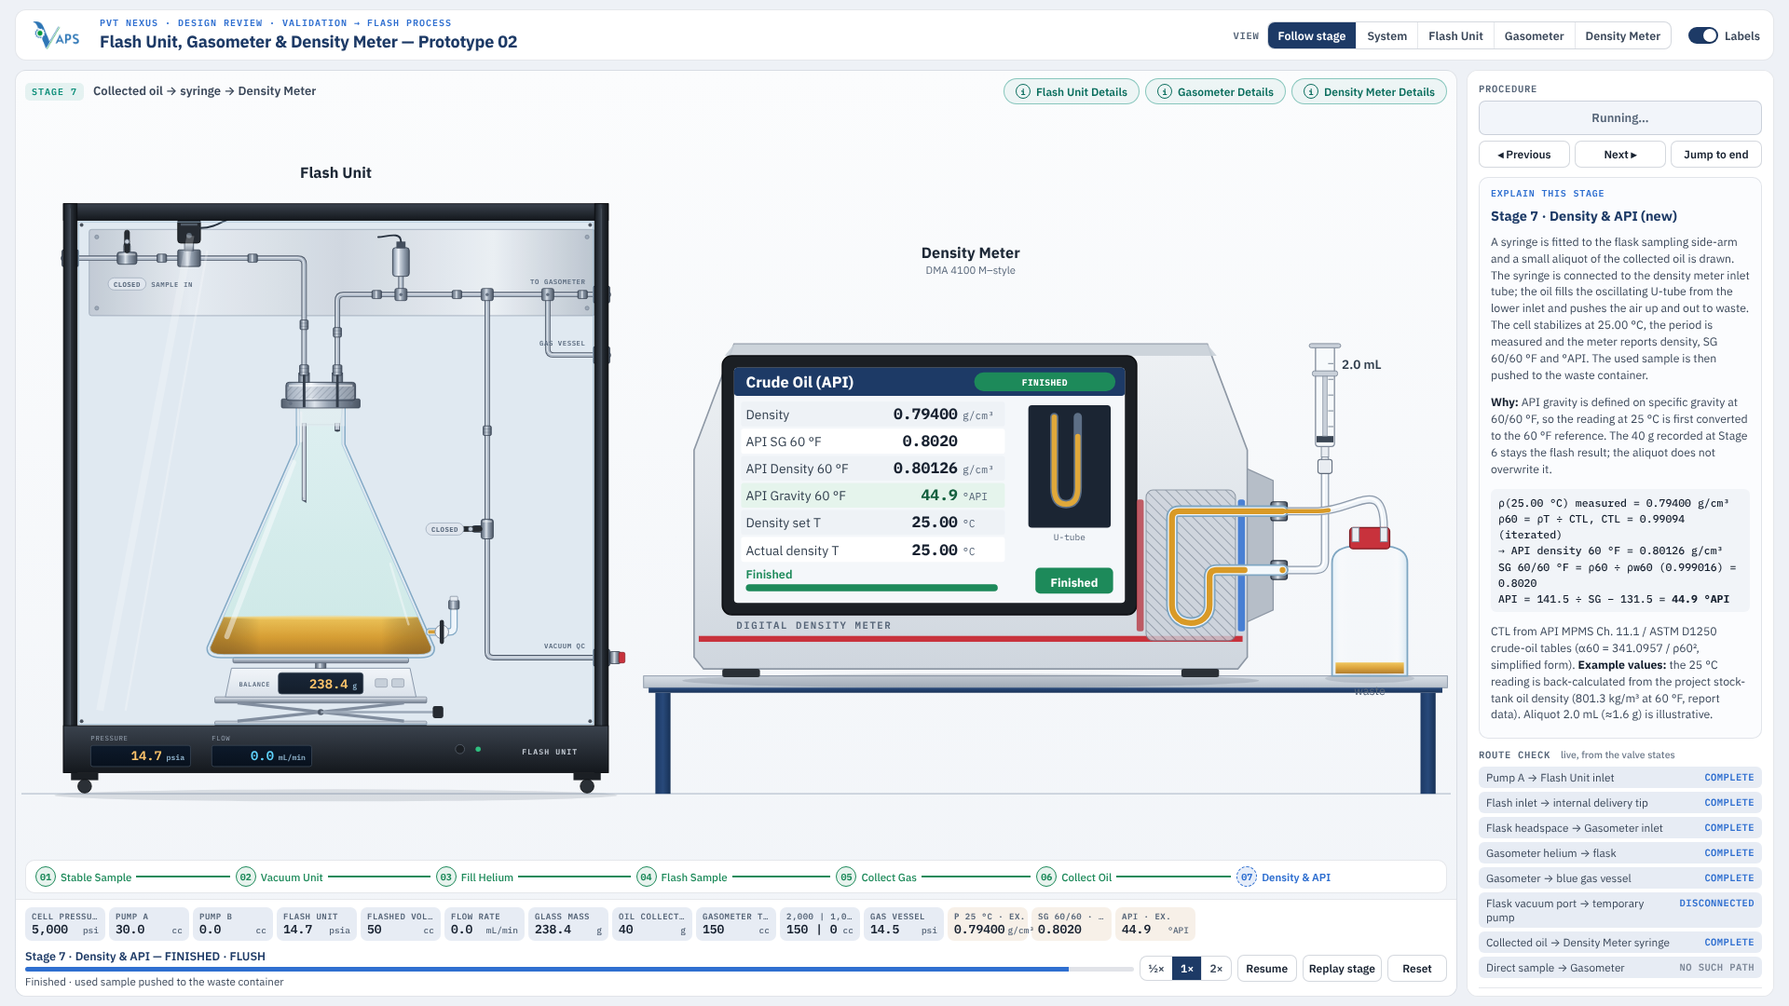
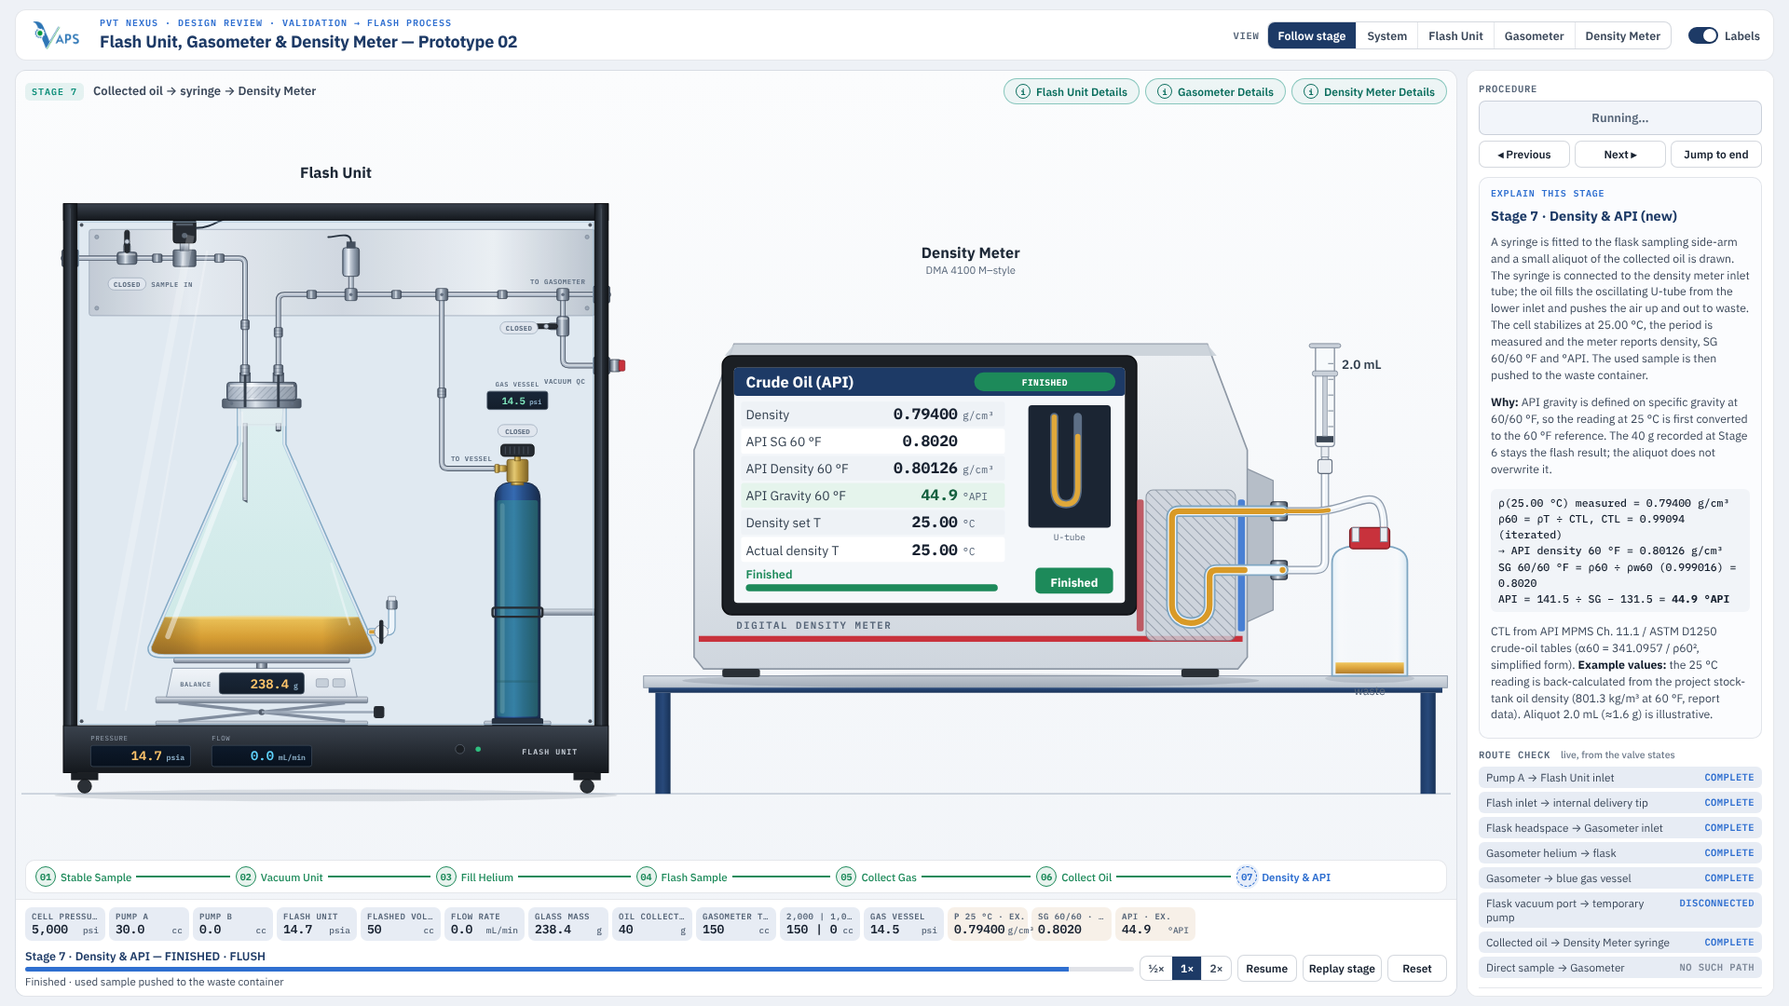
Flash prototype rev. C: reference layout, full-size PVT Cell, vessel inside the Flash Unit
- System view left to right: computer + controller, full-size PVT Cell
  (shared PVTCellArt desk, cable and cell), Flash Unit, Gasometer
- Blue gas-collection vessel stands inside the Flash Unit frame beside the
  flask; gas-collection branch runs from the manifold to its own top valve
- Vacuum quick-connect moved high on the right post; temporary pump stands
  between the Flash Unit and Gasometer during Stage 2 only
- Values, valve timing and routes unchanged

Claude-Session: https://claude.ai/code/session_013YqmijwReojc95dHHUcSpf

Changed region(s): [[0.0625, 0.2139, 0.3438, 0.7333]]

diff --git a/prototypes/flash-unit/flash-unit.js b/prototypes/flash-unit/flash-unit.js
@@ -15,18 +15,19 @@
   'use strict';
   var F = window.FX, R = F.R, C = F.C, E = F.E, P = F.P, L = F.L, T = F.T, MONO = F.MONO, SANS = F.SANS, r1 = F.r1;
 
-  var cx = 340;
+  var cx = 262;
   var G = {
     W: 720, H: 780, post: 18, rail: 22, box0: 690, box1: 752,
     flask: { cx: cx, neckTop: 268, neckBot: 318, neckHW: 32, wallIn: 4, bodyBot: 586, bodyHW: 150, bot: 600, botHW: 132 },
     head: { x0: cx - 46, x1: cx + 46, y0: 236, y1: 268, insertBot: 292 },
     inlet: { x: cx - 22, tip: 392 },
     outlet: { x: cx + 22, open: 300 },
-    sY: 72, gY: 120, iso: 84, sol: 166, pt: 446, vacX: 560, vacValveY: 430, vesX: 640, vesY: 200, vacY: 600,
+    sY: 72, gY: 120, iso: 84, sol: 160, pt: 380, vacX: 660, vacValveY: 162, vesX: 500, vesY: 350, vacY: 214,
+    ves: { x: 600, y: 690 },                                 // blue gas-collection vessel, standing inside the frame (right bay)
     plate: { x0: 34, x1: 702, y0: 34, y1: 148 },
     balance: { x0: cx - 130, x1: cx + 130, pan: 600, top: 614, bot: 652 },
     jack: { top: 652, bot: 690, hw: 140 },
-    arm: { y: 566, x1: cx + 176, top: 532, cock: cx + 160 },
+    arm: { y: 566, x1: cx + 172, top: 532, cock: cx + 158 },
     oilMaxH: 52                                              // drawing scale: 40 g (existing flash result) fills 52 units
   };
   var fl = G.flask;
@@ -67,7 +68,9 @@
     // evacuation: opening -> gas manifold -> vacuum valve -> quick-connect on the right post
     RT.vac = F.path(ox, g.outlet.open).V(g.gY + 8).turn(ox, g.gY, g.vacX, g.gY, 8).H(g.vacX - 8).turn(g.vacX, g.gY, g.vacX, g.vacY, 8).V(g.vacY - 8).turn(g.vacX, g.vacY, g.W, g.vacY, 8).H(g.W).end();
     // gas-collection vessel: from the Gasometer bulkhead along the manifold to the vessel bulkhead
-    RT.ves = F.path(g.W, g.gY).H(g.vesX + 8).turn(g.vesX, g.gY, g.vesX, g.vesY, 8).V(g.vesY - 8).turn(g.vesX, g.vesY, g.W, g.vesY, 8).H(g.W).end();
+    // gas-collection: from the Gasometer bulkhead along the manifold, down the vessel branch, into the vessel's own top valve
+    var vsx = g.ves.x + Parts.VG.side[0] - 6, vtop = g.ves.y - Parts.VG.h + 4;
+    RT.ves = F.path(g.W, g.gY).H(g.vesX + 8).turn(g.vesX, g.gY, g.vesX, g.vesY, 8).V(g.vesY - 8).turn(g.vesX, g.vesY, vsx, g.vesY, 8).H(g.ves.x).V(vtop).end();
   })();
   RT.heIn = F.geo('', RT.gOut.pts.slice().reverse());
 
@@ -165,13 +168,13 @@
     s += F.tube(F.path(0, g.sY).H(ix - 8).turn(ix, g.sY, ix, g.head.y0 - 16, 8).V(g.head.y0 - 16).end());
     s += F.tube(F.path(ox, g.head.y0 - 16).V(g.gY + 8).turn(ox, g.gY, g.W, g.gY, 8).H(g.W).end());
     s += F.tube(F.path(g.vacX, g.gY).V(g.vacY - 8).turn(g.vacX, g.vacY, g.W, g.vacY, 8).H(g.W).end());
-    s += F.tube(F.path(g.vesX, g.gY).V(g.vesY - 8).turn(g.vesX, g.vesY, g.W, g.vesY, 8).H(g.W).end());
+    s += F.tube(F.path(g.vesX, g.gY).V(g.vesY - 8).turn(g.vesX, g.vesY, g.ves.x + Parts.VG.side[0] - 6, g.vesY, 8).H(g.ves.x + Parts.VG.side[0] - 6).end());
     s += F.tube(F.path(g.pt, g.gY).V(g.gY - 26).end());
     [g.pt, g.vacX, g.vesX].forEach(function (x) { s += F.tee(x, g.gY); });
-    [[100 + 30, g.sY], [250, g.sY], [ox + 52, g.gY], [520, g.gY], [686, g.gY]].forEach(function (q) { s += F.nut(q[0], q[1], 'h', .9); });
-    s += F.nut(ix, 160, 'v', .9) + F.nut(ox, 170, 'v', .9) + F.nut(g.vacX, 300, 'v', .9);
+    [[124, g.sY], [206, g.sY], [ox + 44, g.gY], [440, g.gY], [580, g.gY]].forEach(function (q) { s += F.nut(q[0], q[1], 'h', .9); });
+    s += F.nut(ix, 160, 'v', .9) + F.nut(ox, 170, 'v', .9) + F.nut(g.vesX, 250, 'v', .9);
     // bulkheads on the posts
-    [[0, g.sY], [g.W, g.gY], [g.W, g.vesY], [g.W, g.vacY]].forEach(function (q) { var x = q[0] ? g.W - g.post : 0; s += R(x - 2, q[1] - 11, g.post + 4, 22, 'rx="2" fill="url(#ppSteelD)" stroke="#2a3443" stroke-width=".9"'); });
+    [[0, g.sY], [g.W, g.gY], [g.W, g.vacY]].forEach(function (q) { var x = q[0] ? g.W - g.post : 0; s += R(x - 2, q[1] - 11, g.post + 4, 22, 'rx="2" fill="url(#ppSteelD)" stroke="#2a3443" stroke-width=".9"'); });
     // solenoid flow-control valve: body on the line, coil above, cable
     var sx = g.sol;
     s += R(sx - 15, g.sY - 11, 30, 22, 'rx="2" fill="url(#ppSteelD)" stroke="#2a3443" stroke-width="1"');
@@ -184,8 +187,8 @@
     // labels printed on the mounting plate
     s += T(116, 110, 'SAMPLE IN', MONO + ' font-size="9" font-weight="600" letter-spacing=".7" fill="#566578"');
     s += T(g.W - 30, g.gY - 14, 'TO GASOMETER', 'text-anchor="end" ' + MONO + ' font-size="9" font-weight="600" letter-spacing=".7" fill="#566578"');
-    s += T(g.W - 30, g.vesY - 12, 'GAS VESSEL', 'text-anchor="end" ' + MONO + ' font-size="9" font-weight="600" letter-spacing=".7" fill="#566578"');
-    s += T(g.W - 30, g.vacY - 12, 'VACUUM QC', 'text-anchor="end" ' + MONO + ' font-size="9" font-weight="600" letter-spacing=".7" fill="#566578"');
+    s += T(g.vesX + 12, g.vesY - 10, 'TO VESSEL', MONO + ' font-size="9" font-weight="600" letter-spacing=".7" fill="#566578"');
+    s += T(g.W - 30, g.vacY + 24, 'VACUUM QC', 'text-anchor="end" ' + MONO + ' font-size="9" font-weight="600" letter-spacing=".7" fill="#566578"');
     return s;
   }
 
@@ -254,12 +257,29 @@
     s += R(a.x1 - 7, a.top - 8, 14, 12, 'rx="2" fill="url(#ppSteelD)" stroke="#2a3443" stroke-width=".8"') + R(a.x1 - 5, a.top - 13, 10, 6, 'rx="1" fill="#e9edf2" stroke="#5d6878" stroke-width=".7"');
     return s;
   }
+  // blue gas-collection vessel inside the right bay: stands on the lower deck, strap clamp to the right post
+  function vesselSupport() {
+    var v = G.ves, s = '', yc = v.y - 150;
+    s += R(v.x - 44, v.y - 6, 88, 6, 'rx="1.5" fill="url(#ppSteelV)" stroke="#5d6878" stroke-width=".8"');
+    s += R(v.x + 30, yc - 4, G.W - G.post - v.x - 30, 8, 'fill="url(#ppSteelV)" stroke="#5d6878" stroke-width=".7"');
+    return s;
+  }
+  function vessel(V) {
+    var v = G.ves, s = '', yc = v.y - 150;
+    s += '<g transform="translate(' + v.x + ' ' + v.y + ')">' + Parts.vessel(V) + '</g>';
+    s += R(v.x - 33, yc - 6, 66, 12, 'rx="3" fill="none" stroke="#1b1f24" stroke-width="3"');
+    var bp = 14.5 * F.clamp((V.balloon || 0) / 250, 0, 1), ty = v.y - Parts.VG.h - 142;
+    s += R(v.x - 40, ty, 80, 24, 'rx="3" fill="url(#ppScreen)" stroke="#3a4656" stroke-width="1"');
+    s += T(v.x + 32, ty + 17, bp.toFixed(1) + '<tspan font-size="9" fill="#8fb3cc"> psi</tspan>', 'text-anchor="end" ' + MONO + ' font-size="13" font-weight="600" fill="' + (bp > 0.05 ? '#7ff0bf' : '#5fd4ff') + '"');
+    s += T(v.x, ty - 6, 'GAS VESSEL', 'text-anchor="middle" ' + MONO + ' font-size="8.5" font-weight="600" letter-spacing=".7" fill="#566578"');
+    return s;
+  }
   function valves(V) {
     var g = G, v = V.valve || {}, s = '';
     s += F.valve(g.iso, g.sY, 'h', v.inlet || 0, { side: 'up', tag: [0, 34] });
     // solenoid state lamp (energised = open)
     s += C(g.sol, g.sY - 30, 3.6, 'fill="' + ((v.inlet || 0) > 0.5 ? '#2fbf7f' : '#59626e') + '"');
-    s += F.valve(g.vacX, g.vacValveY, 'v', v.vac || 0, { side: 'left', tag: [-56, 0] });
+    s += F.valve(g.vacX, g.vacValveY, 'v', v.vac || 0, { side: 'left', tag: [-58, 2] });
     // quick-connect: capped unless the temporary vacuum hose is attached
     var h = V.vacHose || 0;
     s += R(g.W + 2, g.vacY - 8, 14, 16, 'rx="2" fill="url(#ppSteelD)" stroke="#2a3443" stroke-width=".9"');
@@ -288,6 +308,8 @@
       { id: 'fu-drop', fn: drops },
       { id: 'fu-ffront', html: flaskFront() + head(cut) },
       { id: 'fu-arm', fn: arm },
+      { id: 'fu-vsup', html: vesselSupport() },
+      { id: 'fu-ves', fn: vessel },
       { id: 'fu-valves', fn: valves },
       { id: 'fu-front', html: frameFront() },
       { id: 'fu-disp', fn: displays }
@@ -302,23 +324,24 @@
     { id: 'tube', n: 'Sample delivery tube', s: 'through the head', a: [G.inlet.x - 3, 200], p: [-34, 196], an: 'end' },
     { id: 'head', n: 'Flask head', s: 'sealed · 2 passages', a: [G.head.x0, 250], p: [-34, 258], an: 'end' },
     { id: 'tip', n: 'Delivery tip', s: 'inside the flask', a: [G.inlet.x - 4, G.inlet.tip], p: [-34, 330], an: 'end' },
-    { id: 'flask', n: 'Large glass flask', s: 'separation happens here', a: [210, 470], p: [-34, 420], an: 'end' },
-    { id: 'oil', n: 'Collected oil', s: 'weighed on the balance', a: [214, 586], p: [-34, 520], an: 'end' },
-    { id: 'balance', n: 'Balance', s: 'tare + oil', a: [212, 630], p: [-34, 610], an: 'end' },
-    { id: 'platform', n: 'Adjustable platform', s: 'lab jack', a: [200, 672], p: [-34, 680], an: 'end' },
-    { id: 'flowCtl', n: 'Flow-control component', s: 'solenoid valve', a: [G.sol, 20], p: [G.sol + 60, -40], an: 'middle' },
-    { id: 'pt', n: 'Pressure transducer', s: 'unit pressure · psia', a: [G.pt, 58], p: [G.pt + 40, -40], an: 'middle' },
-    { id: 'gasLine', n: 'Gasometer line', s: 'headspace gas out', a: [G.W + 4, G.gY], p: [770, G.gY], an: 'start' },
-    { id: 'vesselConn', n: 'Gas-collection vessel connection', s: 'line to the blue vessel', a: [G.W + 4, G.vesY], p: [770, G.vesY], an: 'start' },
-    { id: 'outlet', n: 'Headspace gas outlet', s: 'opening above the liquid', a: [G.outlet.x + 4, G.outlet.open], p: [770, 280], an: 'start' },
-    { id: 'headspace', n: 'Gas headspace', s: 'gas gathers here', a: [cx + 60, 380], p: [770, 360], an: 'start' },
-    { id: 'release', n: 'Gas-release region', s: 'bubbles rise through the oil', a: [cx + 90, 540], p: [770, 450], an: 'start' },
-    { id: 'arm', n: 'Oil sampling side-arm', s: 'stopcock · Stage 7', a: [G.arm.x1 + 6, G.arm.top + 4], p: [770, 530], an: 'start' },
-    { id: 'vacConn', n: 'Temporary vacuum connection', s: 'quick-connect · pump is external', a: [G.W + 20, G.vacY], p: [770, G.vacY + 20], an: 'start' }
+    { id: 'flask', n: 'Large glass flask', s: 'separation happens here', a: [cx - 130, 470], p: [-34, 420], an: 'end' },
+    { id: 'oil', n: 'Collected oil', s: 'weighed on the balance', a: [cx - 126, 586], p: [-34, 520], an: 'end' },
+    { id: 'balance', n: 'Balance', s: 'tare + oil', a: [cx - 128, 630], p: [-34, 610], an: 'end' },
+    { id: 'platform', n: 'Adjustable platform', s: 'lab jack', a: [cx - 140, 672], p: [-34, 680], an: 'end' },
+    { id: 'flowCtl', n: 'Flow-control component', s: 'solenoid valve', a: [G.sol, 20], p: [G.sol + 40, -40], an: 'middle' },
+    { id: 'pt', n: 'Pressure transducer', s: 'unit pressure · psia', a: [G.pt, 58], p: [G.pt + 70, -40], an: 'middle' },
+    { id: 'gasLine', n: 'Gasometer line', s: 'headspace gas out', a: [G.W + 4, G.gY], p: [770, 96], an: 'start' },
+    { id: 'vacConn', n: 'Temporary vacuum connection', s: 'quick-connect · pump is external', a: [G.W + 20, G.vacY], p: [770, 176], an: 'start' },
+    { id: 'outlet', n: 'Headspace gas outlet', s: 'opening above the liquid', a: [G.outlet.x + 4, G.outlet.open], p: [770, 256], an: 'start' },
+    { id: 'vesselConn', n: 'Gas-collection vessel connection', s: 'branch to the vessel valve', a: [G.vesX + 4, 300], p: [770, 316], an: 'start' },
+    { id: 'headspace', n: 'Gas headspace', s: 'gas gathers here', a: [cx + 50, 380], p: [770, 376], an: 'start' },
+    { id: 'vessel', n: 'Blue gas-collection vessel', s: 'own top valve · inside the frame', a: [G.ves.x + 30, 470], p: [770, 450], an: 'start' },
+    { id: 'release', n: 'Gas-release region', s: 'bubbles rise through the oil', a: [cx + 80, 556], p: [770, 520], an: 'start' },
+    { id: 'arm', n: 'Oil sampling side-arm', s: 'stopcock · Stage 7', a: [G.arm.x1 + 6, G.arm.top + 4], p: [770, 590], an: 'start' }
   ];
 
   window.FlashUnit = {
     G: G, RT: RT, layers: layers, oilTop: oilTop, LABELS: LABELS,
-    port: { sampleIn: [0, G.sY], gasOut: [G.W, G.gY], vessel: [G.W, G.vesY], vac: [G.W + 16, G.vacY], sample: [G.arm.x1, G.arm.top - 13] }
+    port: { sampleIn: [0, G.sY], gasOut: [G.W, G.gY], vac: [G.W + 16, G.vacY], sample: [G.arm.x1, G.arm.top - 13] }
   };
 })();

diff --git a/prototypes/flash-unit/scene.js b/prototypes/flash-unit/scene.js
@@ -3,7 +3,7 @@
    blue gas-collection vessel and the Stage 7 syringe. The main preview and the Details views call the
    same instrument modules (FlashUnit, Gasometer, DensityMeter, Parts, PVTCellArt).
 
-   Modes: 'system' (PVT Cell -> Flash Unit -> Gasometer, vessel beside the unit), 'density' (Stage 7:
+   Modes: 'system' (computer + controller, PVT Cell -> Flash Unit (flask + blue vessel inside) -> Gasometer), 'density' (Stage 7:
    Flash Unit + Density Meter), 'fu' / 'ga' / 'dm' (one instrument, with what it connects to). */
 (function () {
   'use strict';
@@ -19,7 +19,8 @@
 
   /* placements (world units). floor = 1000 in the system scene */
   var LAYOUT = {
-    system: { vb: [-4, 236, 1778, 784], floor: 1000, cell: { x: -112, y: 622, s: 0.5 }, fu: { x: 430, y: 298, s: 0.9 }, ves: { x: 1272, y: 1000, s: 0.95 }, pump: { x: 1150, y: 1000, s: 0.8 }, ga: { x: 1344, y: 312, s: 0.8 } },
+    // left to right: computer + controller, full-size PVT Cell (same scale as the procedure pages' cell views), Flash Unit, Gasometer
+    system: { vb: [-6, 404, 1842, 616], floor: 1000, desk: { x: 10, y: 700, s: 0.55, legs: 295 }, cell: { x: 56, y: 433, s: 0.75 }, fu: { x: 840, y: 470, s: 0.68 }, pump: { x: 1392, y: 1000, s: 0.6 }, ga: { x: 1500, y: 467, s: 0.62 } },
     density: { vb: [-10, 236, 1700, 784], floor: 1000, fu: { x: 40, y: 298, s: 0.9 }, dm: { x: 790, y: 423, s: 1.4 } },
     fu: { vb: [-300, -60, 1340, 880], floor: 780, fu: { x: 0, y: 0, s: 1 }, pump: { x: 860, y: 780, s: 1 } },
     ga: { vb: [-400, -40, 1340, 920], floor: 860, ga: { x: 0, y: 0, s: 1 } },
@@ -57,13 +58,15 @@
       ext.gas = F.path(go[0], go[1]).H(xg - 10).turn(xg, go[1], xg, gi[1], 10).V(gi[1] - 10).turn(xg, gi[1], gi[0], gi[1], 10).H(gi[0]).end();
       tubes += F.tube(ext.gas);
     }
-    var vesAt = Lo.ves;
-    if (Lo.fu && vesAt) {
-      var vo = tf(Lo.fu, FU.port.vessel), vs = tf(vesAt, [PT.VG.side[0] - 6, PT.VG.side[1]]), xv = vs[0] - 30;
-      ext.ves = F.path(vo[0], vo[1]).H(xv - 10).turn(xv, vo[1], xv, vs[1], 10).V(vs[1] - 10).turn(xv, vs[1], vs[0], vs[1], 10).H(vs[0]).end();
-      tubes += F.tube(ext.ves);
+    // computer + controller and the signal cable (approved shared desk drawing)
+    if (Lo.desk && Lo.cell) {
+      layers.push({ id: 'desk', fn: function (V) {
+        return PA.desk(NS, { x: Lo.desk.x, y: Lo.desk.y, s: Lo.desk.s, legs: Lo.desk.legs, raw: true, ctl: '5,000',
+          rows: [['CELL psig', '5,000', '#7ff0bf'], ['PUMP A cc', (V.pumpA == null ? 80 : V.pumpA).toFixed(1), '#ffc56b'], ['PUMP B cc', '0.0', '#ffc56b'], ['T °C', '114.0', '#7ff0bf']] }) +
+          PA.cable({ at: Lo.cell }, Lo.desk, 40);
+      } });
+      svg += g('desk');
     }
-
     if (Lo.cell) { layers.push({ id: 'cell', fn: function (V) { return cellMarkup(Lo.cell, V); } }); svg += g('cell'); }
     svg += g('tubes', '', tubes);
 
@@ -73,7 +76,6 @@
       return g(key, place(at), inner);
     }
     if (Lo.fu) svg += inst('fu', FU, Lo.fu, opt.fuView || 'internal');
-    if (vesAt) { layers.push({ id: 'ves', fn: function (V) { return PT.vessel(V); } }); svg += g('ves', place(vesAt)); }
     if (Lo.ga) svg += inst('ga', GA, Lo.ga, opt.gaView || 'internal');
     if (Lo.dm) svg += inst('dm', DM, Lo.dm, opt.dmView || 'internal');
 
@@ -104,7 +106,7 @@
       });
       var vg = chain([tgeo(Lo.fu, FU.RT.vac), Lo.pump ? hoseGeo(Lo) : null]);
       routes.vac = { g: vg, kind: 'vac', gate: ['vac'], need: 'vacHose', kf: [[0.15, 0], [0.38, vg.L]] };
-      var vesG = chain([gaIn('2k') && rgeo(gaIn('2k')), ext.gas && rgeo(ext.gas), tgeo(Lo.fu, FU.RT.ves), ext.ves, vesAt ? tgeo(vesAt, PT.vesselRoute) : null]);
+      var vesG = chain([gaIn('2k') && rgeo(gaIn('2k')), ext.gas && rgeo(ext.gas), tgeo(Lo.fu, FU.RT.ves)]);
       routes.vessel = { g: vesG, kind: 'gas', gate: ['in2k', 'iso2k', 'vessel'], kf: [[0.15, 0], [0.40, vesG.L]] };
     } else if (Lo.ga) {
       var g2 = gaIn('2k'), g1 = gaIn('1k');
@@ -150,7 +152,7 @@
   /* ------------------------------------------------------------ temporary vacuum pump + hose */
   function hoseGeo(Lo) {
     var a = tf(Lo.fu, FU.port.vac), b = tf(Lo.pump, PT.PG.inlet);
-    return F.path(a[0], a[1]).C(a[0] + 60, a[1], b[0], b[1] - 90, b[0], b[1]).end();
+    return F.path(a[0], a[1]).C(a[0] + 50, a[1], b[0] - 8, b[1] - 200, b[0], b[1]).end();
   }
   function vacMarkup(Lo, V) {
     var show = V.vacPump || 0, h = V.vacHose || 0;
@@ -209,15 +211,10 @@
     var s = '', lab = function (x, y, n, sub, an) {
       return T(x, y, n, 'text-anchor="' + (an || 'middle') + '" ' + SANS + ' font-size="18" font-weight="700" fill="#1d2836"') + (sub ? T(x, y + 18, sub, 'text-anchor="' + (an || 'middle') + '" ' + SANS + ' font-size="12.5" fill="#566578"') : '');
     };
-    if (Lo.cell) { var cp = PA.pt({ at: Lo.cell }, 615, 30); s += lab(cp[0], cp[1] - 4, 'PVT Cell', 'Pump A → Port R'); }
+    if (Lo.cell) { var cp = PA.pt({ at: Lo.cell }, 615, 8); s += lab(cp[0], cp[1], 'PVT Cell', ''); }
     if (Lo.fu) { var f0 = tf(Lo.fu, [FU.G.W / 2, -14]); s += lab(f0[0], f0[1] - 18, 'Flash Unit', ''); }
     if (Lo.ga) { var g0 = tf(Lo.ga, [GA.G.W / 2, -16]); s += lab(g0[0], g0[1] - 18, 'Gasometer', ''); }
     if (Lo.dm) { var d0 = tf(Lo.dm, [235, -30]); s += lab(d0[0], d0[1] - 18, 'Density Meter', 'DMA 4100 M–style'); }
-    if (Lo.ves) {
-      var v0 = tf(Lo.ves, [0, -PT.VG.h - 96]), bp = 14.5 * F.clamp((V.balloon || 0) / 250, 0, 1);
-      s += T(v0[0], v0[1] - 44, 'Gas vessel', 'text-anchor="middle" ' + SANS + ' font-size="13" font-weight="700" fill="#1d2836"');
-      s += R(v0[0] - 38, v0[1] - 36, 76, 22, 'rx="4" fill="#0d1a2b"') + T(v0[0], v0[1] - 20, bp.toFixed(1) + ' psi', 'text-anchor="middle" ' + MONO + ' font-size="13" font-weight="600" fill="' + (bp > 0.05 ? '#7ff0bf' : '#5fd4ff') + '"');
-    }
     if ((V.vacPump || 0) > 0.3 && Lo.pump) { var p0 = tf(Lo.pump, [0, -PT.PG.h - 24]); s += T(p0[0], p0[1], 'Temporary vacuum pump', 'text-anchor="middle" ' + SANS + ' font-size="12.5" font-weight="700" fill="#2f6fd0" opacity="' + r1(V.vacPump) + '"'); }
     return s;
   }

diff --git a/prototypes/flash-unit/details.js b/prototypes/flash-unit/details.js
@@ -23,7 +23,7 @@
         'Sample from Pump A enters at the sample inlet and passes the inlet-control (isolation) valve and the solenoid flow-control valve on the upper stainless-steel manifold, where its pressure is let down.',
         'The sample delivery tube runs down through the sealed flask head; its tip is inside the large flask. Oil falls from the tip and collects at the bottom of the flask, which stands on the balance on an adjustable platform.',
         'Gas released from the sample rises through the oil into the headspace and leaves only through the headspace gas outlet — a separate passage in the head, opening above the liquid — to the Gasometer line.',
-        'The gas manifold also carries the gas-collection vessel line (Stage 5) and a capped quick-connect for a temporary vacuum pump (Stage 2). The vacuum pump is external equipment: it is connected for Stage 2 and removed afterwards.'
+        'The gas manifold also carries the branch to the blue gas-collection vessel, which stands inside the same frame to the right of the flask (Stage 5) and a capped quick-connect for a temporary vacuum pump (Stage 2). The vacuum pump is external equipment: it is connected for Stage 2 and removed afterwards.'
       ],
       parts: {
         sampleIn: { n: 'Sample inlet', d: 'Bulkhead on the left post where the sample line from the PVT Cell (Pump A through the Port R valve) enters.', in: B },
@@ -40,7 +40,8 @@
         headspace: { n: 'Gas headspace', d: 'Space above the oil where the released gas gathers before leaving through the headspace outlet.', in: B },
         outlet: { n: 'Headspace gas outlet', d: 'Opening of the outlet passage in the neck, above the liquid — never submerged. It leads up to the gas manifold and the Gasometer line.', in: B },
         gasLine: { n: 'Gasometer line', d: 'Gas manifold outlet to the Gasometer inlet. Gas reaches it only from the flask headspace (or from the Gasometer, for helium and vessel filling).', in: B },
-        vesselConn: { n: 'Gas-collection vessel connection', d: 'Branch of the gas manifold to the blue vessel; the vessel’s own top valve isolates it. Used in Stage 5.', in: B },
+        vesselConn: { n: 'Gas-collection vessel connection', d: 'Branch of the gas manifold down to the side connection of the blue vessel’s top valve; that valve is the only isolation. Used in Stage 5.', in: B },
+        vessel: { n: 'Blue gas-collection vessel', d: 'Tall dark-blue cylinder with a brass top valve and black knob, standing on the lower deck in the right bay of the frame with a strap clamp to the post. It holds the GC gas sample; its pressure is shown on the small display above it.', in: B },
         vacConn: { n: 'Temporary vacuum connection', d: 'Vacuum valve and a capped quick-connect on the right post. The vacuum pump itself is external and temporary: connected for Stage 2, then disconnected and removed.', in: B },
         balance: { n: 'Balance', d: 'Weighs the flask and contents: 200 g tare, the oil collected is the gain.', in: B },
         platform: { n: 'Adjustable platform', d: 'Lab jack under the balance, used to raise the flask to the head and lower it for removal.', in: B },

diff --git a/prototypes/flash-unit/README.md b/prototypes/flash-unit/README.md
@@ -14,7 +14,14 @@ No build step. `build-preview.py OUT.html` bundles the page into one file for th
 
 Review links: `?stage=n` (end of stage n) · `&run=1&t=<s>&hold=1` (run stage n, fast-forward, pause) · `&view=auto|system|fu|ga|dm` · `&labels=0` · `&details=fu|ga|dm&dview=overall|internal&demo=<stage>&dt=<s>`.
 
-## Rev. B (this revision)
+## Rev. C — layout (this revision)
+
+- System view arranged left to right like the live Flash Process page: computer + controller (shared `PVTCellArt.desk` + signal cable), the **full-size PVT Cell** (scale 0.75, shared drawing), Flash Unit, Gasometer.
+- The **blue gas-collection vessel stands inside the Flash Unit** frame, right bay, on the lower deck with a strap clamp; the large flask moved left within the frame (same size). Gas-collection line: Gasometer → gas line → Flash Unit manifold → vessel branch → the vessel's own top valve (no extra valve). Vessel pressure display above the vessel.
+- Vacuum branch moved to a quick-connect high on the right post; the temporary pump stands between the Flash Unit and the Gasometer during Stage 2 only.
+- Same components in System, Flash Unit, Stage 7 and Details views. Values and timings unchanged.
+
+## Rev. B
 
 Equipment redrawn from the written description of the laboratory photographs. **The photographs themselves were not available in the session**, so proportions come from the description; please compare against the photos.
 
